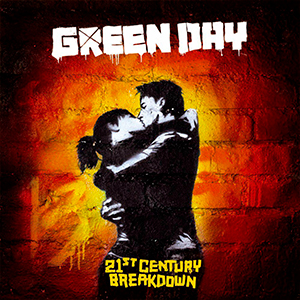
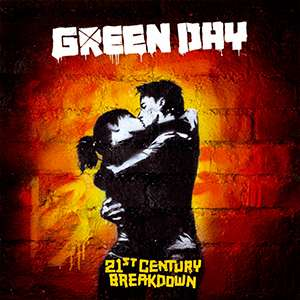
compresion de imagenes e inclusion de README

diff --git a/index.html b/index.html
@@ -53,7 +53,7 @@
         </header>
         <!-- BANNER-->
         <section id="banner">
-            <img src="./assets/img/header1.png" alt="Banner">
+            <img src="./assets/img/header1.png" alt="Banner promocional">
         </section>
         <!-- INTRO-->
         <section class="container" id="intro">
@@ -75,7 +75,7 @@
                     <div class="col-sm">
                         <a href="./pages/recitales.html">
                         <article class="animate-big">
-                            <img src="./assets/img/live1.jpg" alt="promo1">
+                            <img src="./assets/img/live1.jpg" alt="San Francisco">
                                 <h2>OUTSIDE LANDS SAN FRANCISCO, CA</h2>
                                 <p>SINGLE DAY LINE-UP TBA JUL 28, 2022 - JUL 31, 2022</p>
                         </article></div>
@@ -83,7 +83,7 @@
                     <div class="col-sm">
                         <a href="./pages/recitales.html">
                         <article class="animate-big">
-                            <img src="./assets/img/live2.jpg" alt="promo2">
+                            <img src="./assets/img/live2.jpg" alt="Brasil">
                                 <h2>ROCK IN RIO BARRA DA TIJUCA</h2>
                                 <p>WITH FALL OUT BOY SEPTEMBER 9, 2022</p>
                         </a>
@@ -91,7 +91,7 @@
                     <div class="col-sm">
                         <article class="animate-big">
                         <a href="./pages/recitales.html">
-                            <img src="./assets/img/live3.jpg" alt="promo3">
+                            <img src="./assets/img/live3.jpg" alt="Argentina">
                                 <h2>VELEZ SARSFIELD STADIUM BUENOS AIRES</h2>
                                 <p>W/ SPECIAL GUEST BILLY IDOL SEP 11, 2022</p>
                         </a>

diff --git a/pages/biografia.html b/pages/biografia.html
@@ -54,7 +54,7 @@
         </header>
             <!-- BANNER-->
         <section id="banner">
-            <img src="../assets/img/header2.png" alt="Banner">
+            <img src="../assets/img/header2.png" alt="Banner promocional">
             </section>
             <!-- INTRO-->
             <section class="container" id="intro">

diff --git a/pages/discografia.html b/pages/discografia.html
@@ -54,7 +54,7 @@
         </header>
             <!-- BANNER-->
         <section id="banner">
-            <img src="../assets/img/header5.png" alt="Banner">
+            <img src="../assets/img/header5.png" alt="Banner promocional">
             </section>
             <!-- INTRO-->
             <section class="container" id="intro">

diff --git a/pages/recitales.html b/pages/recitales.html
@@ -54,7 +54,7 @@
         </header>
             <!-- BANNER-->
         <section id="banner">
-            <img src="../assets/img/header3.png" alt="Banner">
+            <img src="../assets/img/header3.png" alt="Banner promocional">
             </section>
             <!-- INTRO-->
             <section class="container" id="intro">

diff --git a/pages/contacto.html b/pages/contacto.html
@@ -56,7 +56,7 @@
 <!-- Inicio Main-->
 <!-- BANNER-->
 <section id="banner">
-    <img src="../assets/img/header4.png" alt="Banner">
+    <img src="../assets/img/header4.png" alt="Banner promocional">
     </section>
         <!-- INTRO-->
         <section class="container" id="intro">

diff --git a/README.md b/README.md
@@ -1,0 +1,40 @@
+<h1>
+  <p>Proyecto final Coder House</p>
+  <img src="#" alt="Green day logo">
+</h1>
+
+
+## Introducción
+
+Este es proyecto final del curso de desarrollo web donde se generó un sitio web para la banda de rock Green Day donde se aplicaron todos los conceptos y herramientas que aprendimos durante la cursada para crear un sitio web responsivo para que sea facil de navegar e interactuar en multiples dispositivos.
+
+## Descripción del proyecto
+
+En este proyecto se generó un sitio web con HTML y CSS aplicando buenas practicas del desarrollo web. Durante el desarrollo del mismo se implementó el procesador SASS y la libreria Bootstrap para varios elementos del proyecto y también se aplicaron herramientas de SEO para mejorar el posicionamiento del sitio.
+
+## Herramientas utilizadas
+
+Estas son las herramientas que fueron utilizadas para la creación del proyecto:
+
+- **HTML**
+
+- **CSS**
+
+- **BOOTSTRAP**
+
+- **GIT**
+
+- **SASS**
+
+- **PHOTOSHOP**
+
+
+## Creador del proyecto:
+
+Nicolás Senturion
+
+## Contacto
+
+Mi canal de contacto es:
+- [@nico_senturion](https://www.instagram.com/nico_senturion/) en Instagram
+
